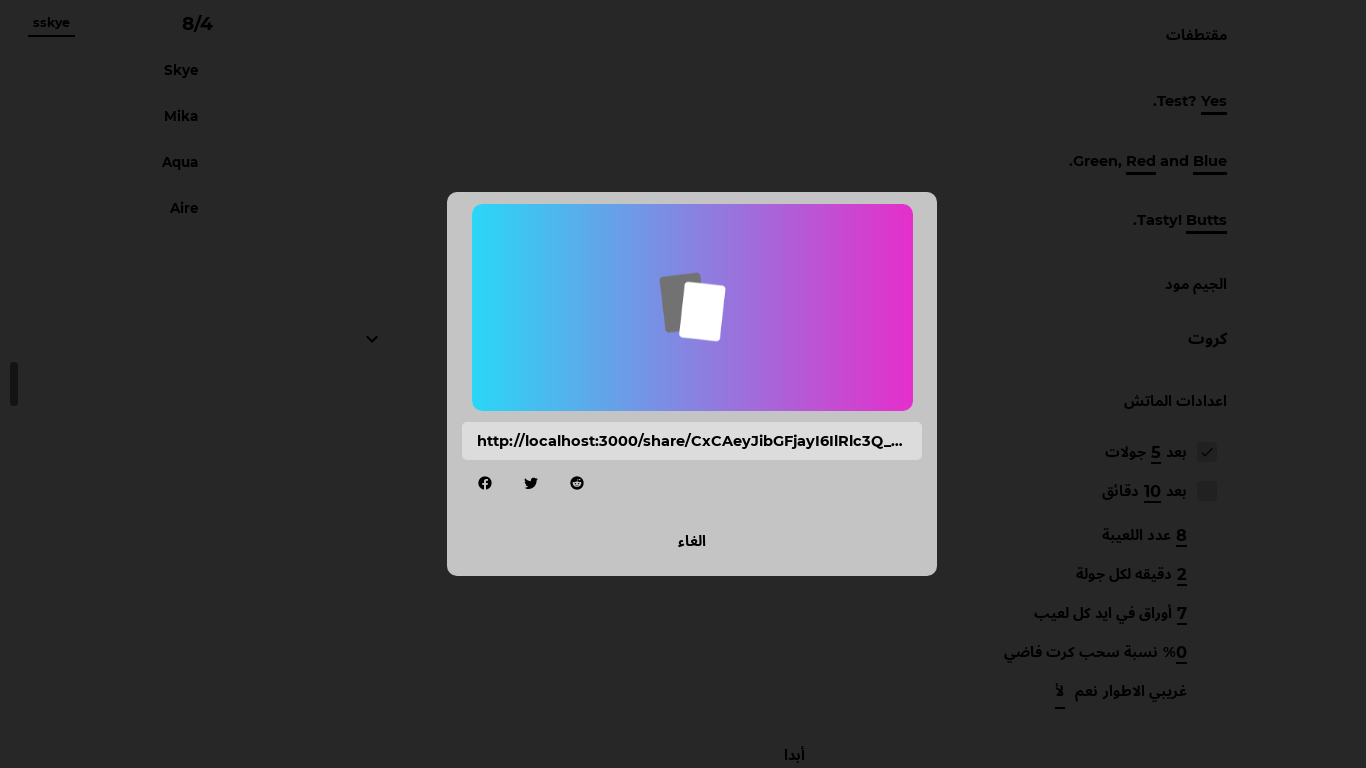
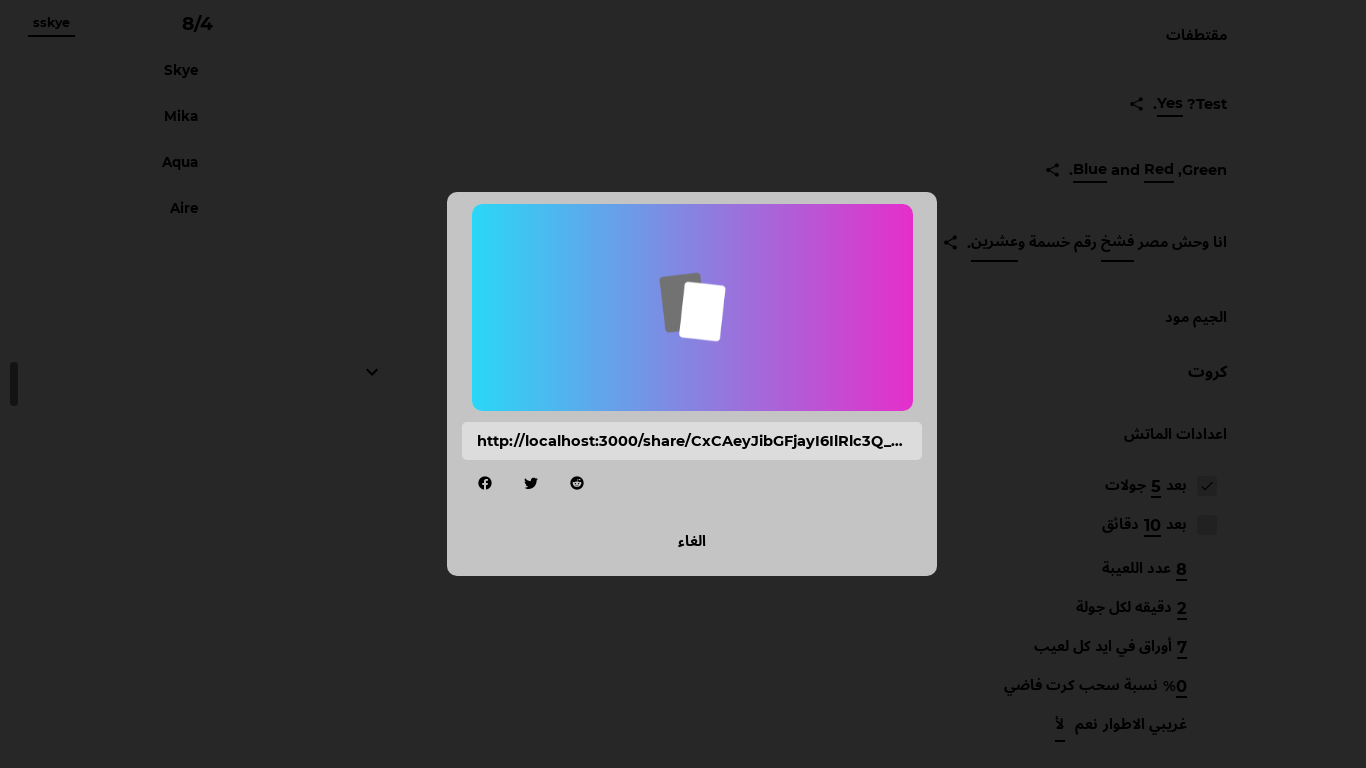
more changes to fix the broken rtl content

diff --git a/src/components/matchHighlights.js b/src/components/matchHighlights.js
@@ -6,7 +6,7 @@ import { createStyle } from 'flcss';
 
 import ShareIcon from 'mdi-react/ShareVariantIcon';
 
-import getTheme, { opacity } from '../colors.js';
+import getTheme from '../colors.js';
 
 import { withI18n } from '../i18n.js';
 
@@ -35,10 +35,14 @@ class MatchHighlights extends StoreComponent
     
     if (process.env.NODE_ENV === 'test' && params.has('highlights'))
     {
-      const entries = params
-        .get('highlights')
-        .split('|')
-        .map(c => c.split('~'));
+      const entries = [];
+
+      entries.push([ 'Test?', 'Yes' ]);
+      entries.push([ 'Green, ______ and ______.', 'Red', 'Blue' ]);
+      entries.push([ 'انا وحش مصر ___ رقم خسمة و_____.', 'فشخ', 'عشرين' ]);
+
+      entries.push([ 'Invalid?', 'Invalid' ]);
+      entries.push([ 'Invalid?', 'Invalid' ]);
 
       this.setState({ entries });
     }
@@ -78,11 +82,18 @@ class MatchHighlights extends StoreComponent
         this.state.entries.slice(0, 3)
           .map(e => fillTheBlanks(e[0], e.slice(1)))
           // eslint-disable-next-line security/detect-object-injection
-          .map((e, k) => <div className={ styles.entry } key={ k } onClick={ () => this.shareEntry(this.state.entries[k]) }>
+          .map((e, k) => <div key={ k } className={ styles.entry } onClick={ () => this.shareEntry(this.state.entries[k]) }>
             {
-              e.split('\n').map((t, i) => <span key={ i } className={ i % 2 ? styles.underline : styles.content }>
-                { t }
-              </span>)
+              e.split('\n').map((t, i) =>
+                <span
+                  key={ i }
+                  style = { {
+                    padding: '3px 0',
+                    borderBottom: i % 2 ? '2px solid' : undefined
+                  } }
+                >
+                  { t }
+                </span>)
             }
 
             <ShareIcon className={ styles.icon }/>
@@ -100,6 +111,8 @@ MatchHighlights.propTypes =
 
 const styles = createStyle({
   container: {
+    display: 'flex',
+    flexDirection: 'column',
     padding: '0 25px',
     fontSize: 'calc(6px + 0.4vw + 0.4vh)'
   },
@@ -110,46 +123,30 @@ const styles = createStyle({
 
   entry: {
     cursor: 'pointer',
-    position: 'relative',
+    display: 'flex',
+
+    width: 'fit-content',
+    
+    alignItems: 'center',
+    whiteSpace: 'pre-wrap',
+
     color: colors.blackText,
     
-    left: 0,
-    padding: '0 0 20px',
-    transition: 'left 0.35s ease',
+    margin: '20px 0',
+    transition: 'margin 0.25s ease',
     
     ':hover': {
-      left: '10px',
-
-      '> svg': {
-        opacity: 1,
-        width: 'calc(14px + 0.25vw + 0.25vh)'
-      }
+      margin: '20px -10px 20px -10px'
     }
   },
 
   icon: {
-    opacity: 0,
-    position: 'relative',
-    color: colors.whiteText,
-    backgroundColor: opacity(colors.greyText, 0.25),
+    color: colors.blackText,
 
-    top: '10px',
-    left: '-10px',
-    width: 'calc(8px + 0.25vw + 0.25vh)',
-    height: 'calc(14px + 0.25vw + 0.25vh)',
+    width: 'calc(12px + 0.2vw + 0.2vh)',
+    height: 'calc(12px + 0.2vw + 0.2vh)',
     
-    padding: '8px',
-    borderRadius: '100%',
-    transition: 'opacity 0.25s ease, width 0.35s ease'
-  },
-
-  content: {
-    padding: '2px 0'
-  },
-  
-  underline: {
-    extend: 'content',
-    borderBottom: '3px solid'
+    margin: '0 8px'
   }
 });
 

diff --git a/src/components/box.js b/src/components/box.js
@@ -25,7 +25,13 @@ const Box = ({ description, allowed, onSubmit }) =>
 
   const [ content, setContent ] = useState(allowed && description ? '' : description);
   
-  return <div className={ styles.container } waiting={ (!allowed && description !== undefined).toString() } style={ { direction: locale.direction } }>
+  return <div
+    className={ styles.container }
+    waiting={ (!allowed && description !== undefined).toString() }
+    style={ {
+      direction: locale.direction,
+      rowGap: allowed && description ? '10px' : 0
+    } }>
     {
       allowed && description ? <div
         className={ styles.items }
@@ -53,7 +59,7 @@ const Box = ({ description, allowed, onSubmit }) =>
     }
 
     {
-      allowed ? <SubmitIcon className={ styles.icon } onClick={ () => onSubmit(content) }/> : undefined
+      allowed ? <SubmitIcon className={ styles.icon } style={ { transform: locale.direction === 'ltr' ? 'scaleX(1)' : 'scaleX(-1)' } } onClick={ () => onSubmit(content) }/> : undefined
     }
   </div>;
 };
@@ -82,9 +88,9 @@ const styles = createStyle({
   container: {
     display: 'grid',
     position: 'relative',
+
     gridTemplateColumns: '1fr auto',
     gridTemplateRows: 'auto 1fr',
-
     gridTemplateAreas: '"items icon" "content icon"',
 
     backgroundColor: colors.blackCardBackground,
@@ -150,7 +156,6 @@ const styles = createStyle({
     maxWidth: '65vw',
 
     padding: 0,
-    margin: '10px 0 0',
     border: 0,
 
     ':focus': {
@@ -195,9 +200,9 @@ const styles = createStyle({
   },
 
   icon: {
-    cursor: 'pointer',
-
     gridArea: 'icon',
+    
+    cursor: 'pointer',
     color: colors.whiteText,
     
     width: '0',

diff --git a/src/components/fieldOverlay.js b/src/components/fieldOverlay.js
@@ -362,7 +362,8 @@ const styles = createStyle({
   },
 
   bottom: {
-    display: 'flex',
+    display: 'grid',
+    gridTemplateColumns: '1fr auto',
     padding: '15px 0px 15px'
   },
 
@@ -372,7 +373,7 @@ const styles = createStyle({
     width: 'calc(14px + 0.3vw + 0.3vh)',
     height: 'calc(14px + 0.3vw + 0.3vh)',
 
-    margin: 'auto auto auto 0'
+    margin: 'auto 0'
   }
 });
 

diff --git a/src/i18n.js b/src/i18n.js
@@ -1,5 +1,7 @@
 import React, { useState, useEffect } from 'react';
 
+import { setTag } from '@sentry/react';
+
 const locales = [
   // {
   //   value: 'united states',
@@ -52,6 +54,9 @@ export function setLocale(country, language)
   
   locale = match;
 
+  setTag('region', locale.value);
+  setTag('locale', locale.locale);
+  
   event.dispatchEvent(new Event('update'));
 }
 
